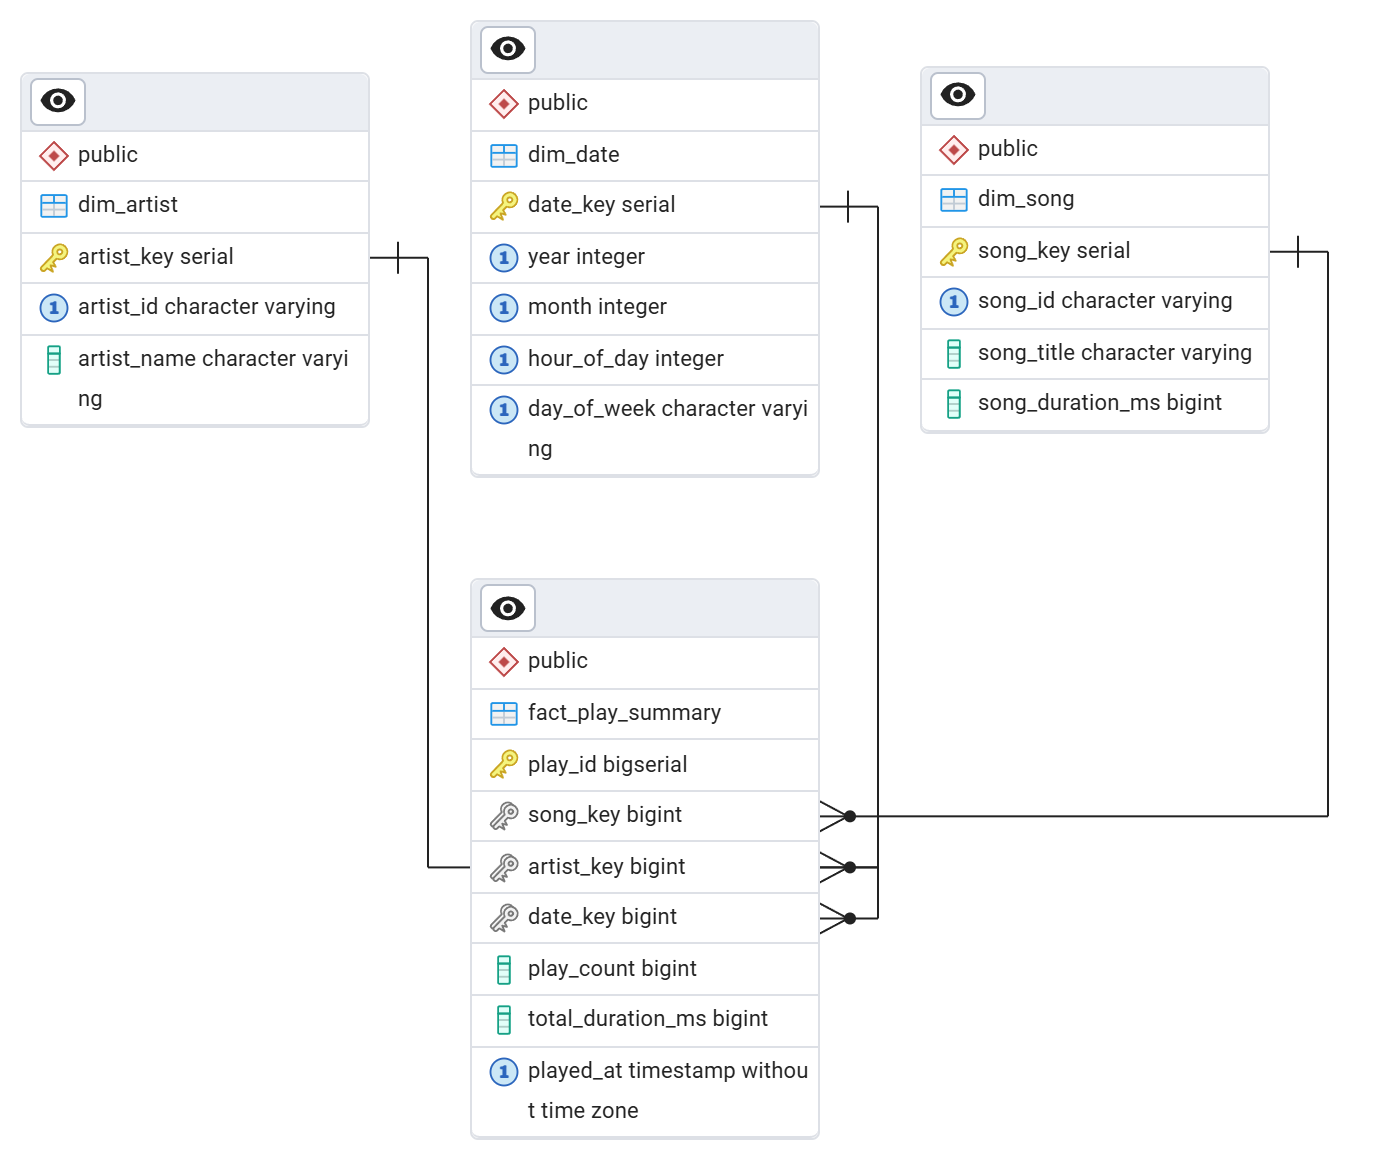
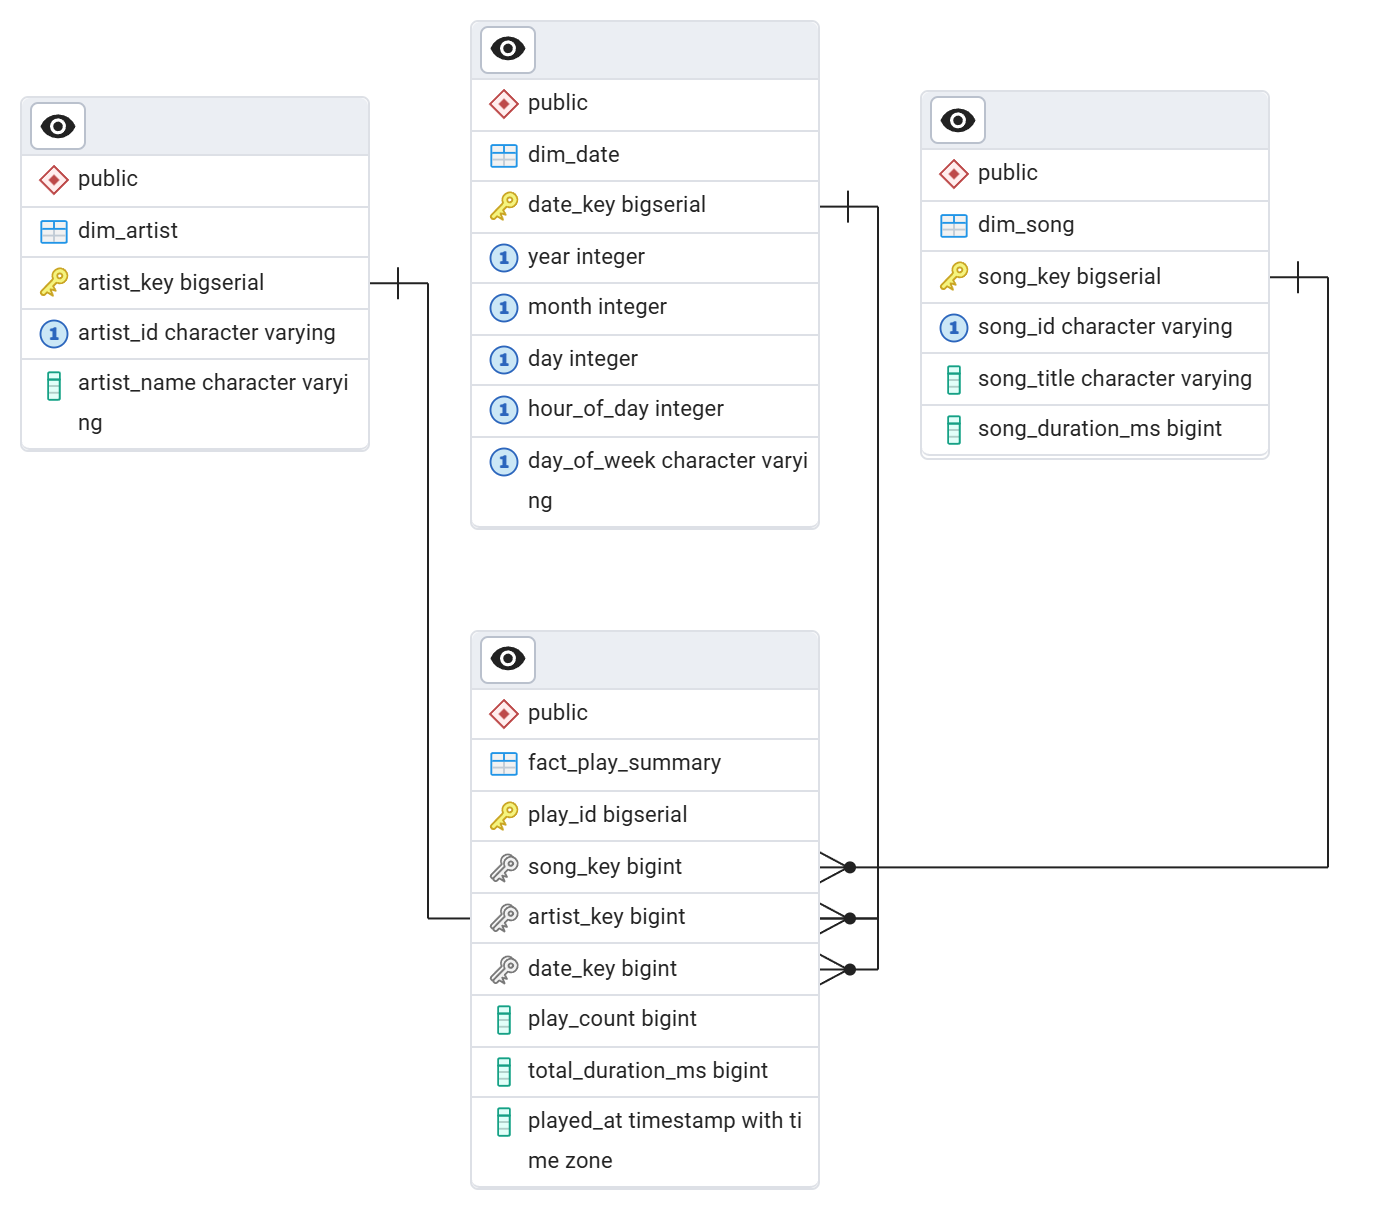
docs: update README with Airflow DAG, schema images

diff --git a/README.md b/README.md
@@ -2,7 +2,7 @@
 
 Designed and implemented a Spotify ETL pipeline using Airflow, MinIO, Postgres, and Metabase. Built a recommendation engine on top of structured data to suggest new tracks, demonstrating skills in data orchestration, data warehousing, and analytics engineering.
 
-**Note:** This project is a work in progress and not yet complete.
+**Note:** The core pipeline is functional; recommendation engine is being extended.
 
 ## Overview
 
@@ -56,12 +56,14 @@ spotify-etl-pipeline/
 - DAGs manage ETL jobs: **Extract → Transform → Load**.
 - Scheduled runs ensure data freshness.
 - Integrated logging and monitoring.
+- Example DAG screenshot:
+  ![Airflow DAG Example](assets/recently_played_dag-graph.png)
 
 **ETL Layer**
 
 - **Extract** – Fetch Spotify data and save raw JSON in **MinIO**.
 - **Transform** – Clean and normalize data; save Parquet in **MinIO**.
-- **Load (Processed)**: Save processed data as Parquet in MinIO and load into PostgreSQL tables:
+- **Load (Processed)**: Load processed data as Parquet in MinIO into PostgreSQL tables:
   - `dim_artist`
   - `dim_song`
   - `dim_date`
@@ -102,11 +104,11 @@ spotify-etl-pipeline/
 
 ### Dimensions
 
-| Table      | Columns                                              | Description                                |
-| ---------- | ---------------------------------------------------- | ------------------------------------------ |
-| dim_artist | artist_key (PK), artist_id, artist_name              | Stores unique artists.                     |
-| dim_song   | song_key (PK), song_id, song_title, song_duration_ms | Stores unique songs and their duration.    |
-| dim_date   | date_key (PK), year, month, hour_of_day, day_of_week | Stores date and time attributes for plays. |
+| Table      | Columns                                                   | Description                                |
+| ---------- | --------------------------------------------------------- | ------------------------------------------ |
+| dim_artist | artist_key (PK), artist_id, artist_name                   | Stores unique artists.                     |
+| dim_song   | song_key (PK), song_id, song_title, song_duration_ms      | Stores unique songs and their duration.    |
+| dim_date   | date_key (PK), year, month, day, hour_of_day, day_of_week | Stores date and time attributes for plays. |
 
 ### Fact
 
@@ -141,6 +143,7 @@ Fill in:
 
 Metabase visualizes:
 ![Spotify Dashboard](assets/dashboard.jpg)
+Some dashboard views, such as the weekend vs weekday trend, are incomplete due to insufficient weekend data.
 
 ---
 
